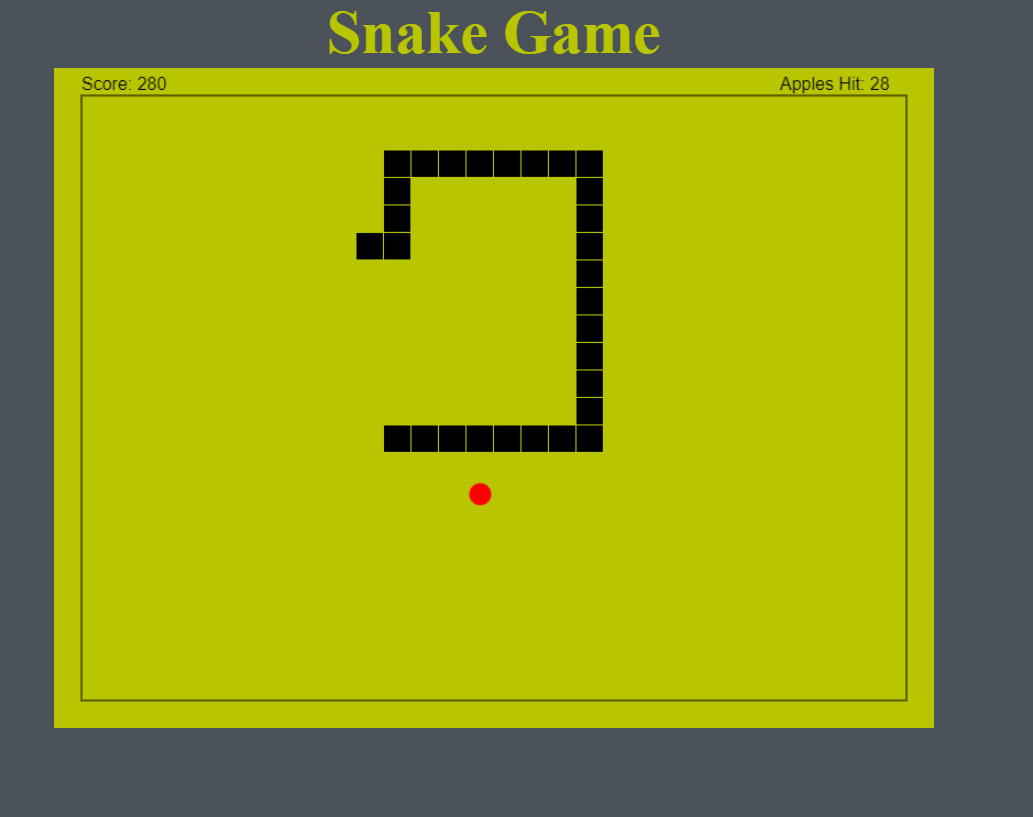
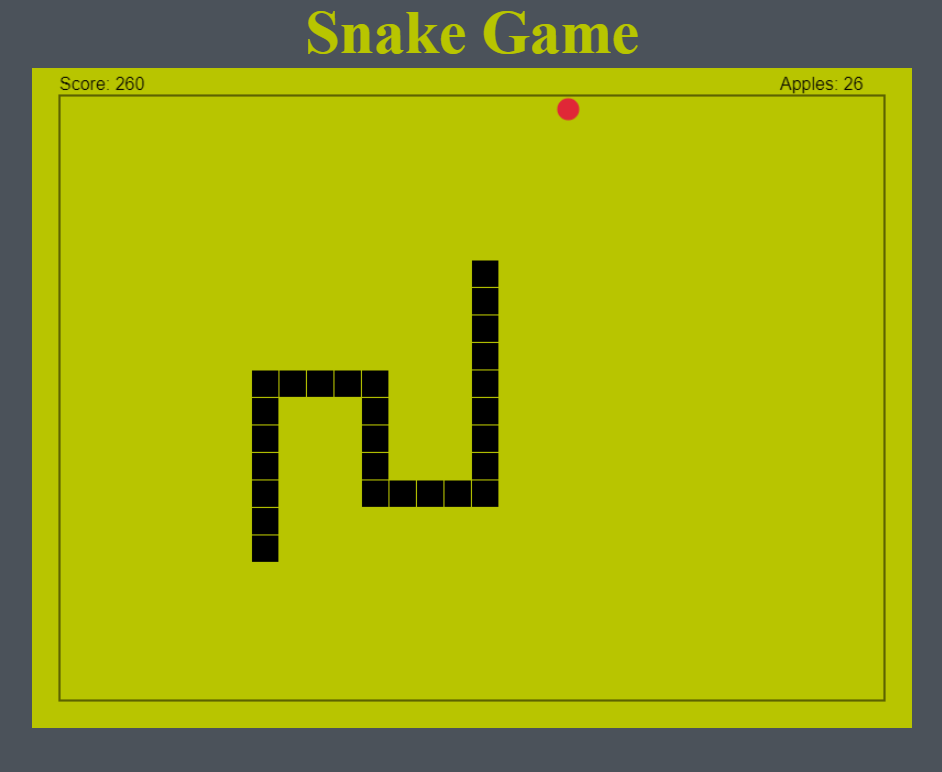
Completed Game and README

Changed region(s): [[0.0308, 0.0, 0.9851, 0.9637], [0.2463, 0.1554, 0.5849, 0.7461]]

diff --git a/index.js b/index.js
@@ -1,29 +1,25 @@
 let canvas = document.getElementById('game-canvas');
 let canvasContext = canvas.getContext('2d');
+
 let snakeX = canvas.width / 2;
 let snakeY = canvas.height / 2;
 let snakedX = 25;
 let snakedY = -25;
 let snakeWidth = 25;
 let snakeHeight = 25;
+let snake = [];
+
+let appleX;
+let appleY;
+let appleWidth = 25;
+let appleHeight = 25;
+let apples = 0;
+let appleHit = true;
 
 let borderX = 25;
 let borderY = 25;
 let borderWidth = 750;
 let borderHeight = 550;
-
-let score = 0;
-let applesHit = 0;
-
-let interval;
-
-let snake = [];
-
-let appleHit = true;
-let appleX;
-let appleY;
-let appleWidth = 25;
-let appleHeight = 25;
 
 let rightPressed = false;
 let leftPressed = false;
@@ -31,30 +27,7 @@ let upPressed = false;
 let downPressed = false;
 
 let isGameOver = false;
-
-window.onload = function() {
-    snake.push({ x: snakeX, y: snakeY });
-    drawApple();
-}
-
-function drawBorder() {
-    canvasContext.beginPath();
-    canvasContext.rect(borderX, borderY, borderWidth, borderHeight);
-    canvasContext.stroke();
-}
-
-function drawApple() {
-    if (appleHit) {
-        appleX = (Math.round(Math.floor(Math.random() * ((borderWidth - appleWidth) + 1) / 25) * 25) + 25);
-        appleY = (Math.round(Math.floor(Math.random() * ((borderHeight - appleHeight) + 1) / 25) * 25) + 25);
-        appleHit = false;
-    }
-    canvasContext.beginPath();
-    canvasContext.arc((appleX + (appleWidth / 2)), (appleY + (appleHeight / 2)), 10, 0, Math.PI * 2, false);
-    canvasContext.fillStyle = 'red';
-    canvasContext.fill();
-    canvasContext.closePath();
-}
+let interval;
 
 function drawSnake() {
     for (i = snake.length - 1; i >= 0; i--) {
@@ -65,10 +38,33 @@ function drawSnake() {
     }
 }
 
+function drawApple() {
+    if (appleHit) {
+        appleX = (Math.round(Math.floor(Math.random() * ((borderWidth - appleWidth) + 1) / 25) * 25) + 25);
+        appleY = (Math.round(Math.floor(Math.random() * ((borderHeight - appleHeight) + 1) / 25) * 25) + 25);
+        appleHit = false;
+    }
+    canvasContext.beginPath();
+    canvasContext.arc((appleX + (appleWidth / 2)), (appleY + (appleHeight / 2)), 10, 0, Math.PI * 2, false);
+    canvasContext.fillStyle = '#e02737';
+    canvasContext.fill();
+    canvasContext.closePath();
+}
+
+function drawBorder() {
+    canvasContext.beginPath();
+    canvasContext.rect(borderX, borderY, borderWidth, borderHeight);
+    canvasContext.stroke();
+}
+
 function drawScore() {
     canvasContext.font = '16px Arial';
     canvasContext.fillStyle = 'black';
-    canvasContext.fillText('Score: ' + score, 25, 20);
+    canvasContext.fillText('Score: ' + apples * 10, 25, 20);
+
+    canvasContext.font = '16px Arial';
+    canvasContext.fillStyle = 'black';
+    canvasContext.fillText('Apples: ' + apples, canvas.width - 120, 20);
 }
 
 function drawGameOver() {
@@ -89,14 +85,6 @@ function drawGameOver() {
     canvasContext.fillText('Hit Enter', (borderWidth / 2) - 55, (borderHeight / 2) + 55);
 }
 
-
-
-function drawAppleHits() {
-    canvasContext.font = '16px Arial';
-    canvasContext.fillStyle = 'black';
-    canvasContext.fillText('Apples: ' + applesHit, canvas.width - 120, 20);
-}
-
 function moveSnake() {
     for (i = snake.length - 1; i > 0; i--) {
         snake[i].x = snake[i - 1].x;
@@ -114,28 +102,6 @@ function moveSnake() {
     }
 }
 
-
-
-function snakeGame() {
-    canvasContext.clearRect(0, 0, canvas.width, canvas.height);
-    drawBorder();
-    drawScore();
-    drawAppleHits();
-    collisionDetect();
-    drawApple();
-    moveSnake();
-    drawSnake();
-    if (isGameOver) {
-        drawGameOver();
-    }
-}
-
-function collisionDetect() {
-    appleCollision();
-    edgeCollision();
-    snakeCollision();
-}
-
 function snakeCollision() {
     for (i = snake.length - 1; i > 0; i--) {
         if (snake[0].x > snake[i].x - 25 && snake[0].x < snake[i].x + 25
@@ -146,10 +112,8 @@ function snakeCollision() {
 }
 
 function edgeCollision() {
-    if (snake[0].x > borderWidth || snake[0].x < borderX) {
-        gameOver();
-    }
-    if (snake[0].y > borderHeight || snake[0].y < borderY) {
+    if (snake[0].x > borderWidth || snake[0].x < borderX ||
+        snake[0].y > borderHeight || snake[0].y < borderY) {
         gameOver();
     }
 }
@@ -157,20 +121,17 @@ function edgeCollision() {
 function appleCollision() {
     if (snake[0].x > appleX - 25 && snake[0].x < appleX + 25
         && snake[0].y > appleY - 25 && snake[0].y < appleY + 25) {
-        if (rightPressed) {
-            snake.push({ x: snake[snake.length - 1].x - snakedX, y: snake[snake.length - 1].y });
-        } else if (leftPressed) {
-            snake.push({ x: snake[snake.length - 1].x + snakedX, y: snake[snake.length - 1].y });
-        } else if (upPressed) {
-            snake.push({ x: snake[snake.length - 1].x, y: snake[snake.length - 1].y - snakedY });
-        } else if (downPressed) {
-            snake.push({ x: snake[snake.length - 1].x, y: snake[snake.length - 1].y + snakedY });
-        }
+        snake.push({ x: -25, y: -25 });
         appleHit = true;
-        applesHit++;
-        score += 10;
+        apples++;
         drawApple();
     }
+}
+
+function collisionDetect() {
+    appleCollision();
+    edgeCollision();
+    snakeCollision();
 }
 
 function gameOver() {
@@ -179,11 +140,9 @@ function gameOver() {
     drawGameOver();
 }
 
-
 document.addEventListener('keydown', keyDownHanlder, false);
 
 function keyDownHanlder(e) {
-    console.log(e.key);
     if ((e.key === 'Right' || e.key === 'ArrowRight') && (!leftPressed)) {
         rightPressed = true;
         leftPressed = false;
@@ -207,10 +166,28 @@ function keyDownHanlder(e) {
     } else if ((e.key === 'Enter') && (isGameOver)) {
         isGameOver = false;
         document.location.reload();
-        applesHit = 0;
-        score = 0;
+        apples = 0;
     }
 }
 
+window.onload = function() {
+    snake.push({ x: snakeX, y: snakeY });
+    drawApple();
+}
+
+function snakeGame() {
+    canvasContext.clearRect(0, 0, canvas.width, canvas.height);
+    drawBorder();
+    drawScore();
+    collisionDetect();
+
+    if (isGameOver) {
+        drawGameOver();
+    } else {
+        drawApple();
+        drawSnake();
+        moveSnake();
+    }
+}
 
 interval = setInterval(snakeGame, 100);
